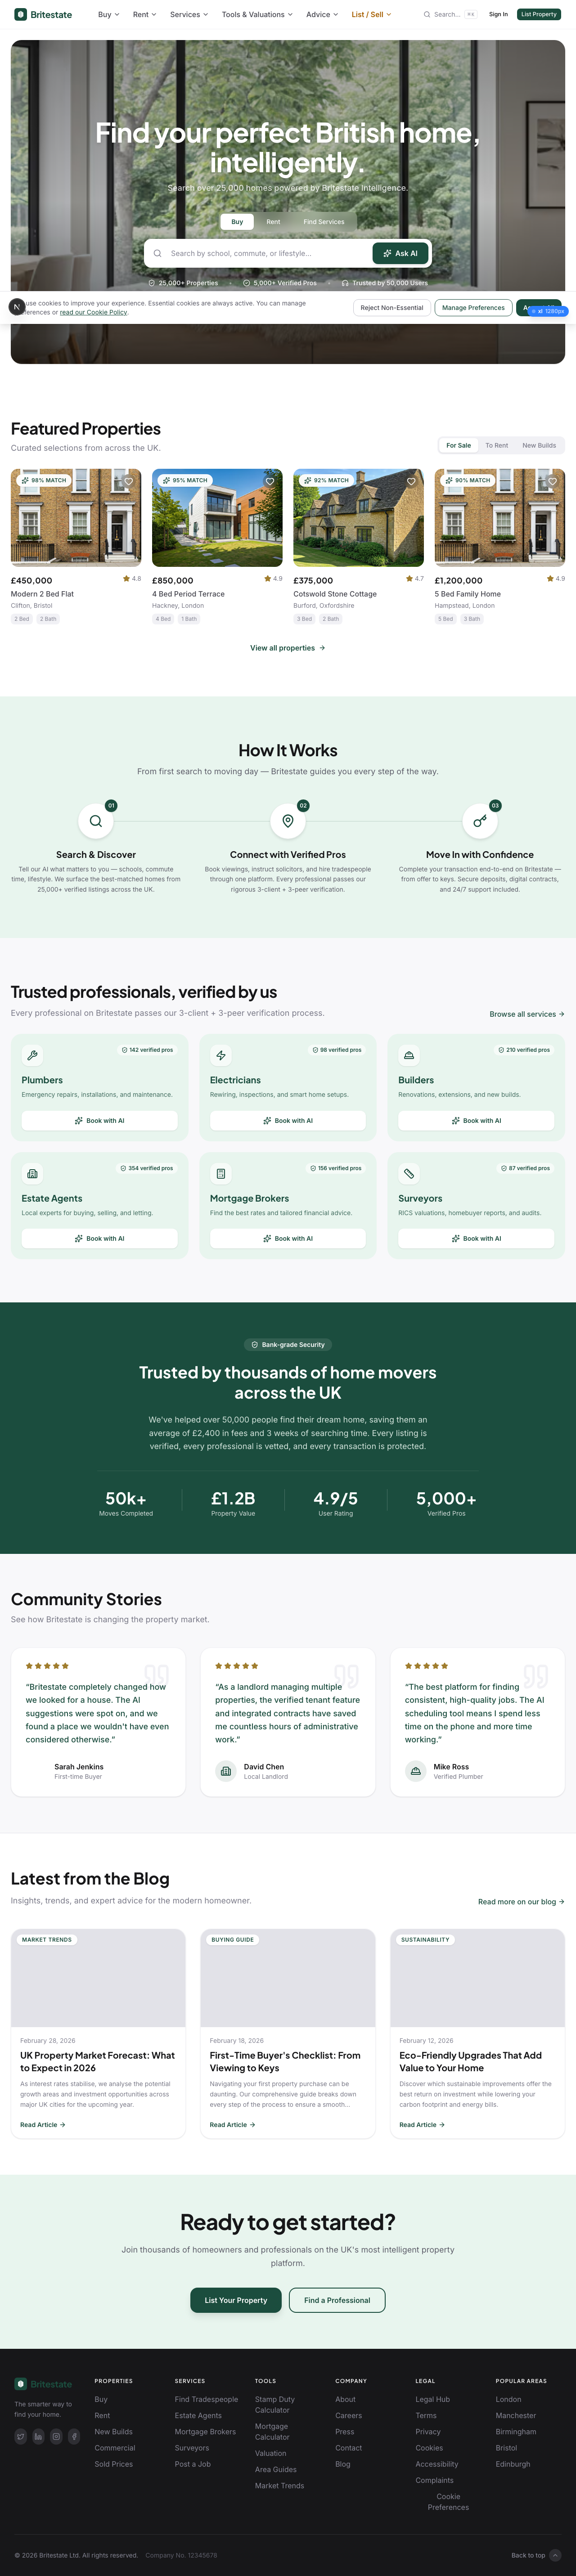
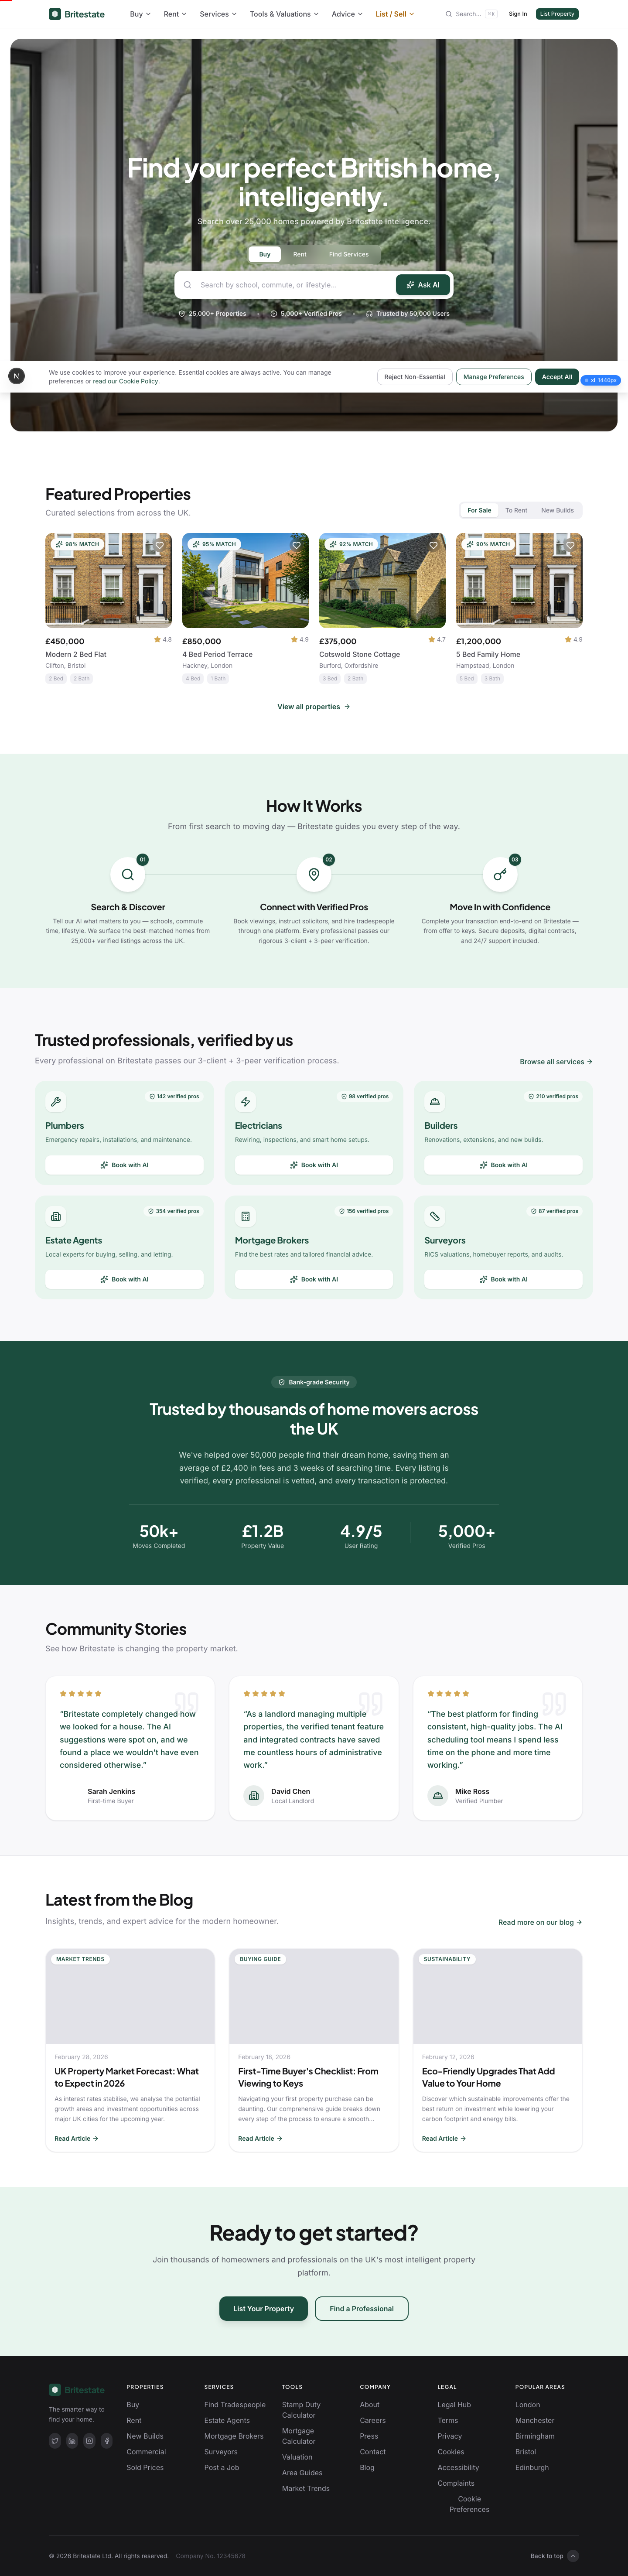
chore(qa): add Stage 4 QA report and update screenshots

diff --git a/src/app/(main)/services/tradespeople/[category]/[location]/page.tsx b/src/app/(main)/services/tradespeople/[category]/[location]/page.tsx
@@ -126,9 +126,9 @@ function FaqSection({
   ];
 
   return (
-    <section className="mt-12 bg-[#f4f3f2] rounded-2xl p-8">
+    <section className="mt-12 bg-surface-container-low rounded-2xl p-8">
       <h2
-        className="font-heading text-xl font-bold text-[#1B4D3E] mb-6"
+        className="font-heading text-xl font-bold text-brand-primary mb-6"
         style={{ letterSpacing: "-0.01em" }}
       >
         Frequently Asked Questions
@@ -136,10 +136,10 @@ function FaqSection({
       <div className="space-y-6">
         {faqs.map((faq) => (
           <div key={faq.q}>
-            <h3 className="font-semibold text-[#1B4D3E] mb-1">
+            <h3 className="font-semibold text-brand-primary mb-1">
               {faq.q}
             </h3>
-            <p className="text-sm text-[#1B4D3E]/60 leading-relaxed">
+            <p className="text-sm text-brand-primary/60 leading-relaxed">
               {faq.a}
             </p>
           </div>
@@ -164,11 +164,11 @@ function Breadcrumb({
 }>) {
   return (
     <nav aria-label="Breadcrumb" className="mb-6">
-      <ol className="flex flex-wrap items-center gap-1.5 text-sm text-[#1B4D3E]/50">
+      <ol className="flex flex-wrap items-center gap-1.5 text-sm text-brand-primary/50">
         <li>
           <Link
             href="/"
-            className="hover:text-[#1B4D3E] transition-colors"
+            className="hover:text-brand-primary transition-colors"
           >
             Home
           </Link>
@@ -177,7 +177,7 @@ function Breadcrumb({
         <li>
           <Link
             href="/services/tradespeople"
-            className="hover:text-[#1B4D3E] transition-colors"
+            className="hover:text-brand-primary transition-colors"
           >
             Services
           </Link>
@@ -186,14 +186,14 @@ function Breadcrumb({
         <li>
           <Link
             href={`/services/tradespeople?category=${categorySlug}`}
-            className="hover:text-[#1B4D3E] transition-colors"
+            className="hover:text-brand-primary transition-colors"
           >
             {categoryDisplay}
           </Link>
         </li>
         <li aria-hidden="true">/</li>
         <li
-          className="text-[#1B4D3E] font-medium"
+          className="text-brand-primary font-medium"
           aria-current="page"
         >
           {locationDisplay}
@@ -263,14 +263,14 @@ export default async function CategoryLocationPage({ params }: PageProps) {
         {/* Provider grid */}
         {providers.length === 0 ? (
           <div className="rounded-2xl bg-surface-container-low py-16 text-center">
-            <p className="font-semibold text-[#1B4D3E]">
+            <p className="font-semibold text-brand-primary">
               No {categoryDisplay.toLowerCase()} found in {locationDisplay}
             </p>
-            <p className="text-sm mt-1 text-[#1B4D3E]/60">
+            <p className="text-sm mt-1 text-brand-primary/60">
               Try{" "}
               <Link
                 href="/services/tradespeople"
-                className="text-[#1B4D3E] font-semibold hover:underline"
+                className="text-brand-primary font-semibold hover:underline"
               >
                 searching all tradespeople
               </Link>{" "}
@@ -279,8 +279,8 @@ export default async function CategoryLocationPage({ params }: PageProps) {
           </div>
         ) : (
           <>
-            <p className="text-sm text-[#1B4D3E]/60 mb-4">
-              <span className="font-semibold text-[#1B4D3E]">
+            <p className="text-sm text-brand-primary/60 mb-4">
+              <span className="font-semibold text-brand-primary">
                 {providers.length}
               </span>{" "}
               {categoryDisplay.toLowerCase()}